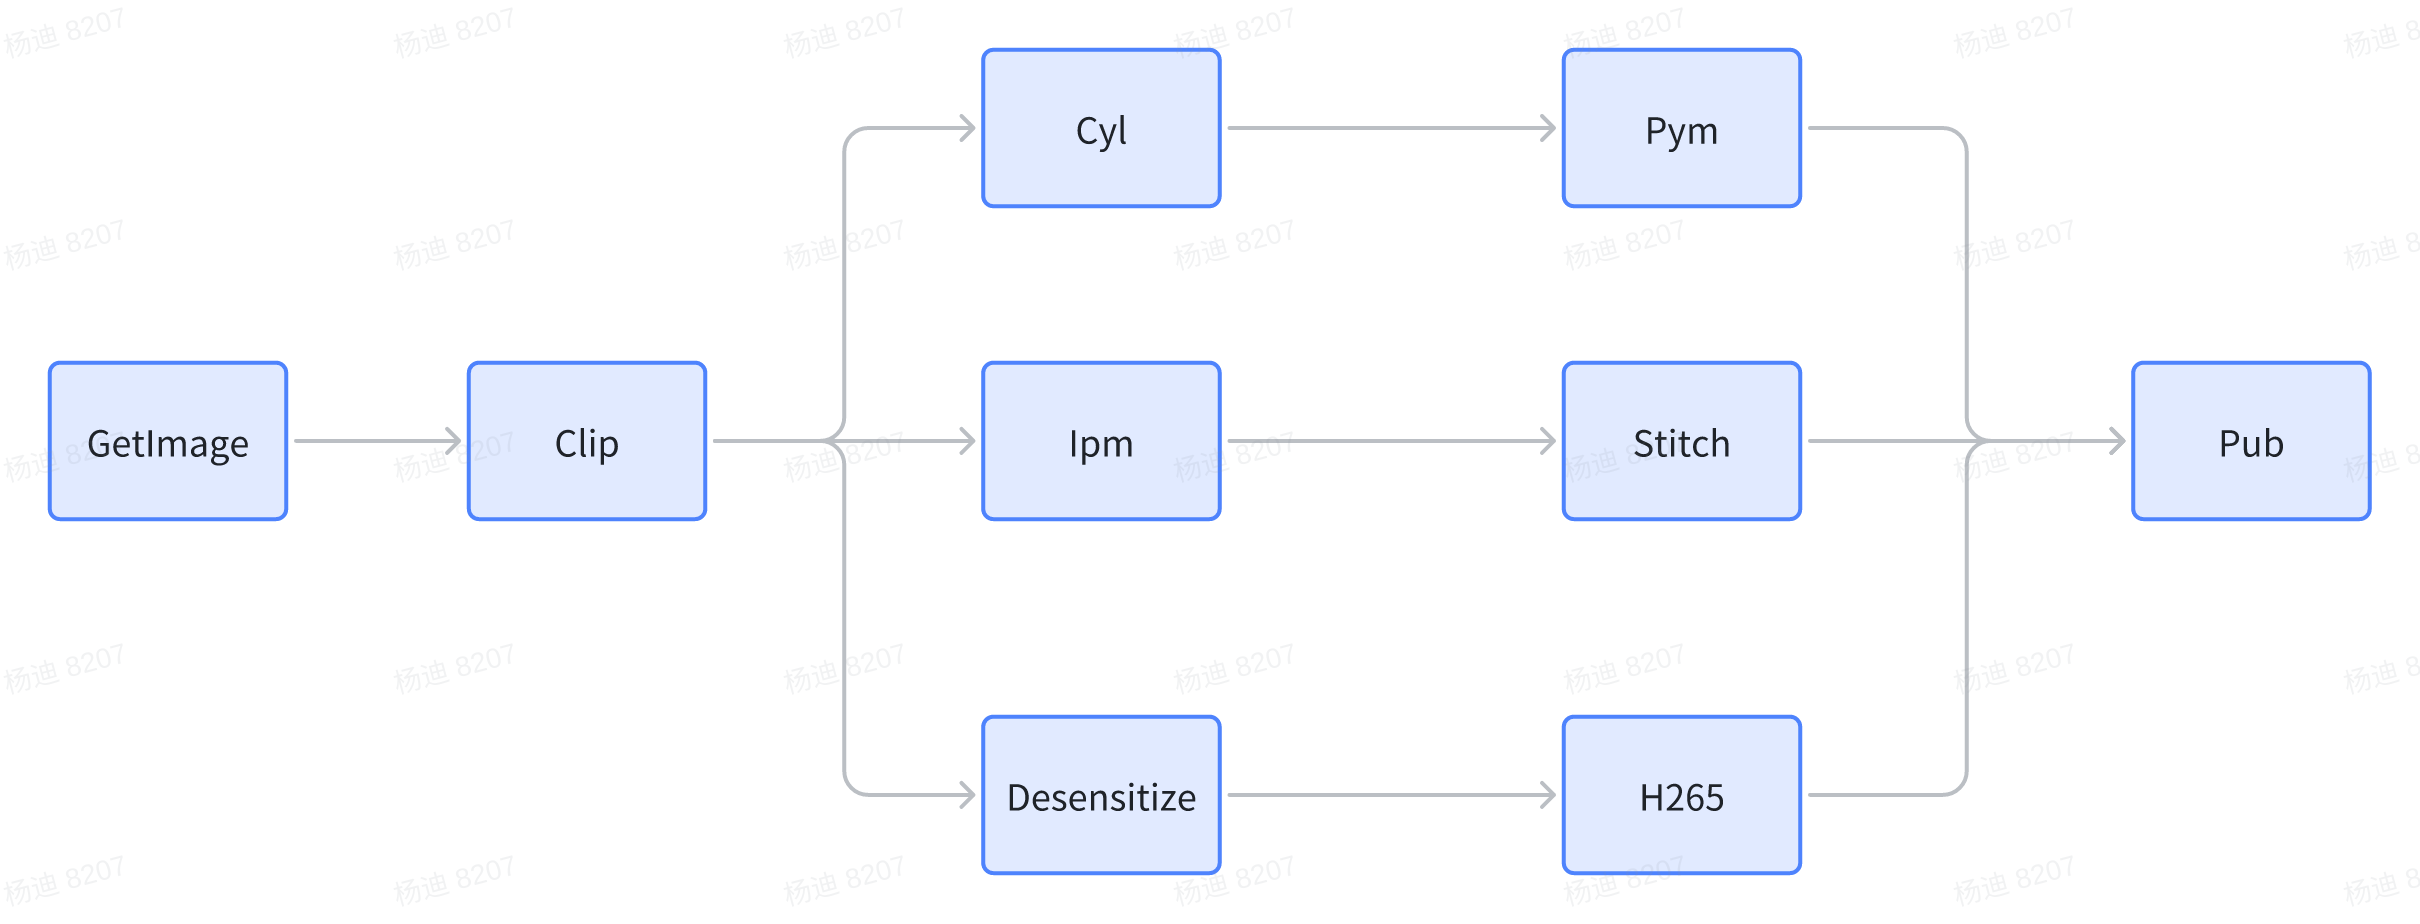
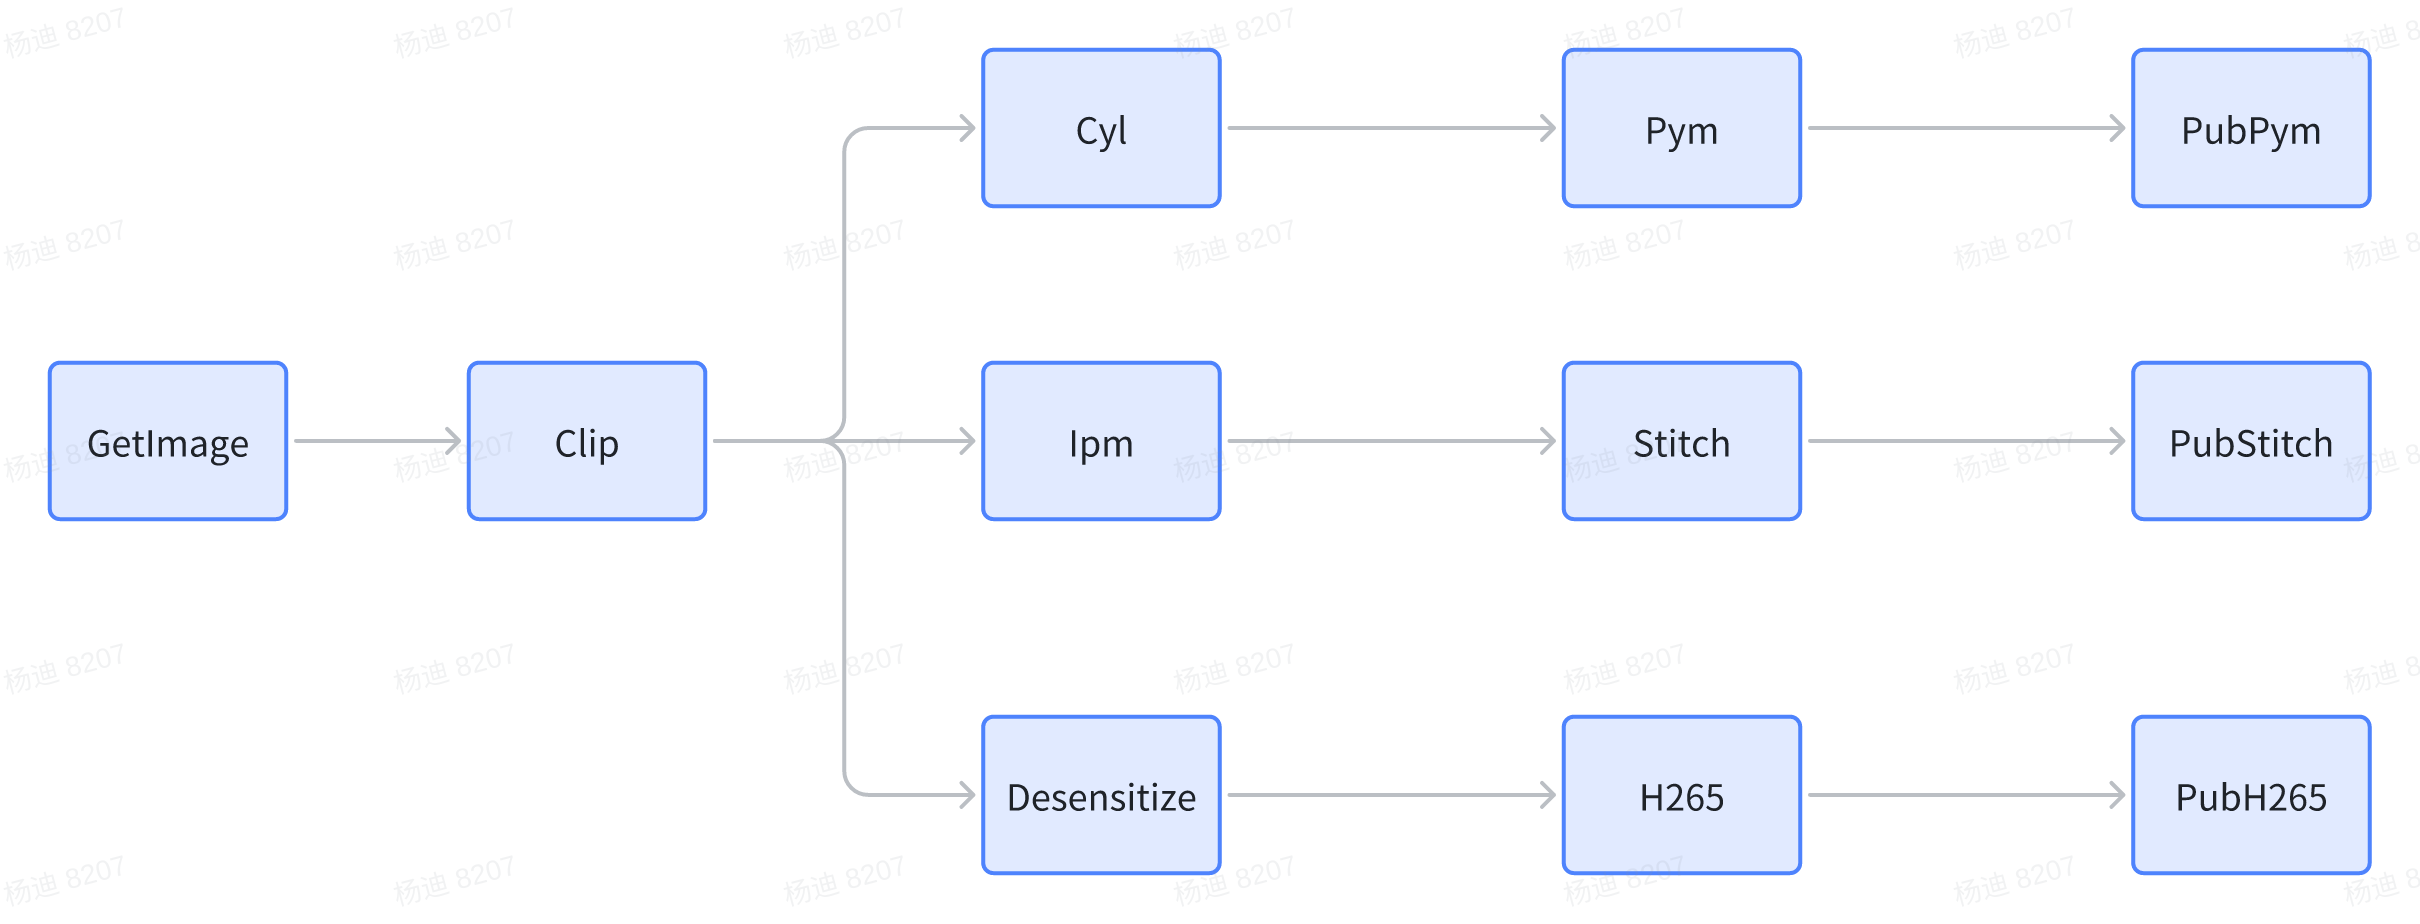
升级为可以持续按照DAG运行

Changed region(s): [[0.8058, 0.7576, 0.9917, 0.9697], [0.8058, 0.0303, 0.9917, 0.2424], [0.8988, 0.4545, 0.9607, 0.5152]]

diff --git a/src/main.cpp b/src/main.cpp
@@ -3,14 +3,14 @@
 #include "DGraph.h"
 #include "MyNode.h"
 
-#define TEST_DIRECTED_GRAPH_1 1
+#define TEST_DIRECTED_GRAPH_1 0
 #define TEST_DIRECTED_GRAPH_2 0
-#define TEST_DIRECTED_GRAPH_3 0
+#define TEST_DIRECTED_GRAPH_3 1
 
 int main() {
   try {
    #if TEST_DIRECTED_GRAPH_1
-    std::shared_ptr<Node> a = std::make_shared<MyNode1>();
+    std::shared_ptr<Node> a = std::make_shared<MyNode5>();
     std::shared_ptr<Node> b = std::make_shared<MyNode5>();
     std::shared_ptr<Node> c = std::make_shared<MyNode3>();
     std::shared_ptr<Node> d = std::make_shared<MyNode1>();
@@ -27,8 +27,8 @@ int main() {
     graph->RegisterNode(d, {a}, "NodeD");     // 注册节点d，命名为NodeD，依赖节点a
     graph->RegisterNode(e, {b, c}, "NodeE");  // 注册节点e，命名为NodeE，依赖节点b和c
     graph->RegisterNode(f, {d, e}, "NodeF");  // 注册节点f，命名为NodeF，依赖节点d和e
-    graph->RegisterNode(g, {}, "NodeG");      // 注册节点g，命名为NodeG
-    graph->RegisterNode(h, {}, "LoopNode1"); // 注册一个loop节点h,
+    // graph->RegisterNode(g, {}, "NodeG");      // 注册节点g，命名为NodeG
+    // graph->RegisterNode(h, {}, "LoopNode1"); // 注册一个loop节点h,
     // graph->RegisterNode(c, {f}, "NodeC");     // 注册节点c，命名为NodeC，依赖节点f。注意：此项会使graph成环, 图结构见image目录Directed_ring_graph.jpg
    #endif
 
@@ -64,15 +64,18 @@ int main() {
    #endif
 
    #if TEST_DIRECTED_GRAPH_3
-    std::shared_ptr<Node> a = std::make_shared<LoopNode>();
-    std::shared_ptr<Node> b = std::make_shared<MyNode5>();
-    std::shared_ptr<Node> c = std::make_shared<MyNode5>();
-    std::shared_ptr<Node> d = std::make_shared<MyNode5>();
-    std::shared_ptr<Node> e = std::make_shared<MyNode5>();
+    std::shared_ptr<Node> a = std::make_shared<MyNode10>();
+    std::shared_ptr<Node> b = std::make_shared<MyNode3>();
+    std::shared_ptr<Node> c = std::make_shared<MyNode3>();
+    std::shared_ptr<Node> d = std::make_shared<MyNode2>();
+    std::shared_ptr<Node> e = std::make_shared<MyNode3>();
     std::shared_ptr<Node> f = std::make_shared<MyNode5>();
     std::shared_ptr<Node> g = std::make_shared<MyNode5>();
     std::shared_ptr<Node> h = std::make_shared<MyNode5>();
-    std::shared_ptr<Node> i = std::make_shared<LoopNode>();
+    std::shared_ptr<Node> i = std::make_shared<MyNode1>();
+    std::shared_ptr<Node> j = std::make_shared<MyNode1>();
+    std::shared_ptr<Node> k = std::make_shared<MyNode1>();
+
 
 
     DGraph* graph = new DGraph();
@@ -85,7 +88,9 @@ int main() {
     graph->RegisterNode(f, {e}, "Stitch");      // 注册节点f，命名为Stitch，依赖节点e
     graph->RegisterNode(g, {b}, "Desensitize"); // 注册节点g，命名为Desensitize，依赖节点b
     graph->RegisterNode(h, {g}, "H265");        // 注册节点h，命名为H265，依赖节点g
-    graph->RegisterNode(i, {}, "Pub");          // 注册节点i，命名为Pub，无依赖节点
+    graph->RegisterNode(i, {d}, "PubCyl");      // 注册节点i，命名为Pub，无依赖节点
+    graph->RegisterNode(j, {f}, "PubStitch");   // 注册节点i，命名为Pub，无依赖节点
+    graph->RegisterNode(k, {h}, "PubH265");     // 注册节点i，命名为Pub，无依赖节点
    #endif
 
 
@@ -93,7 +98,7 @@ int main() {
     graph->TopologicalSort();
 
     graph->Run();
-    std::this_thread::sleep_for(std::chrono::seconds(1));
+    std::this_thread::sleep_for(std::chrono::seconds(30));
     graph->Deinit();
   } catch (std::exception const& e) {
     std::cerr << e.what() << std::endl;

diff --git a/src/Node.cpp b/src/Node.cpp
@@ -24,19 +24,24 @@ void Node::RunBefore() {
 
 void Node::RunAfter() {
   // 节点执行完成后，给依赖此节点的后驱节点依赖项减一
-  node_state_ = NodeState::RUNNING_DONE;
   for (auto node : right_be_dependency_node_) {
     node->left_dep_count_--;
   }
+  // 运行结束后重置本节点入度
+  left_dep_count_ = static_left_dep_count_;
+  std::cout << node_name_ << " reset left_dep_count_: " << left_dep_count_ << std::endl;
+  node_state_ = NodeState::RUNNING_DONE;
 }
 
 bool Node::IsRunable() {
   bool ret{false};
   // 节点没有running 且 节点没有执行完成 且 前置依赖项为0
-  if (node_state_ != NodeState::RUNNING &&
-      node_state_ != NodeState::RUNNING_DONE && left_dep_count_ == 0) {
+  if (left_dep_count_ == 0 &&
+      node_state_ != NodeState::RUNNING &&
+      node_state_ != NodeState::RUNNING_WAITING) {
     std::cout << node_name_ << " is run able" << std::endl;
     ret = true;
+    node_state_ = NodeState::RUNNING_WAITING;
   }
   return ret;
 }
@@ -48,6 +53,7 @@ void Node::AddDependencyNodes(std::set<std::shared_ptr<Node>> const& node_set) {
     left_dependency_node_.emplace(node);  // 将此节点依赖的前置节点注册进来
     left_dep_count_++;  // 将此节点的依赖项加一，此依赖项归零便可以执行
     indegree_++;
+    static_left_dep_count_++;
 
     node->right_be_dependency_node_.emplace(
         this);  // 将依赖此节点的后驱节点注册进来

diff --git a/src/Engine.cpp b/src/Engine.cpp
@@ -32,18 +32,32 @@ void Engine::Init(std::shared_ptr<NodeManager>& node_manager) {
 }
 
 void Engine::Run() {
+  is_running_ = true;
   int total_node_count{node_manager_->GetNodeCount()};
   std::cout << "\n\n************** Engine Run total node count: "
             << total_node_count << " ***************\n"
             << std::endl;
 
-  while (node_have_been_run_count_ < total_node_count) {
-    for (auto node : node_manager_->GetRunAbleNode()) {
-      std::cout << "Add " << node->GetNodeName() << " to thread pool\n";
-      thread_pool_ptr_->execute(std::bind(&Node::Process, node));
-      node_have_been_run_count_++;
+  // 可以一直按照DAG顺序运行
+  thread_pool_ptr_->execute([this]() {
+    while (is_running_) {
+      for (auto node : node_manager_->GetRunAbleNode()) {
+        std::cout << "Add " << node->GetNodeName() << " to thread pool\n";
+        thread_pool_ptr_->execute(std::bind(&Node::Process, node));
+      }
     }
-  }
+  });
+
+  // 只能运行一轮
+  // while (node_have_been_run_count_ < total_node_count) {
+  //   for (auto node : node_manager_->GetRunAbleNode()) {
+  //     std::cout << "Add " << node->GetNodeName() << " to thread pool\n";
+  //     thread_pool_ptr_->execute(std::bind(&Node::Process, node));
+  //     node_have_been_run_count_++;
+  //   }
+  // }
 }
 
-void Engine::Deinit() {}
+void Engine::Deinit() {
+  is_running_ = false;
+}

diff --git a/src/TopologicalSort.cpp b/src/TopologicalSort.cpp
@@ -10,7 +10,7 @@ TopologicalSort::TopologicalSort(std::set<std::shared_ptr<Node>> adjs) {
   adjs_ = adjs;
 }
 
-std::queue<std::shared_ptr<Node>> TopologicalSort::Sort() {
+std::vector<std::shared_ptr<Node>> TopologicalSort::Sort() {
   /// @brief 存储入度为0的节点
   std::queue<std::shared_ptr<Node>> queue;
   /// @brief 将邻接表中入度为零的节点加入队列
@@ -29,7 +29,7 @@ std::queue<std::shared_ptr<Node>> TopologicalSort::Sort() {
   while (!queue.empty()) {
     auto node = queue.front();
     queue.pop();
-    topological_order_.push(node);
+    topological_order_.push_back(node);
 
     for (auto node : node->GetRightNode()) {
       if (--node->GetIndegree() == 0) {
@@ -83,11 +83,9 @@ void TopologicalSort::dfs(std::shared_ptr<Node> node) {
 }
 
 void TopologicalSort::PrintOrder() {
-  std::queue<std::shared_ptr<Node>> queue{topological_order_};
+  std::vector<std::shared_ptr<Node>> queue{topological_order_};
   std::cout << "Topological order: ";
-  while (!queue.empty()) {
-    auto node = queue.front();
-    queue.pop();
+  for (auto node : topological_order_) {
     std::cout << node->GetNodeName() << " ";
   }
   std::cout << std::endl;

diff --git a/src/NodeManager.cpp b/src/NodeManager.cpp
@@ -16,16 +16,25 @@ void NodeManager::Init() {
  */
 std::vector<std::shared_ptr<Node>> NodeManager::GetRunAbleNode() {
   std::vector<std::shared_ptr<Node>> run_able_nodes;
-  while (!order_node_queue_.empty()) {
-    auto node = order_node_queue_.front();
+  // 可以按照DAG一直运行
+  for (auto node : order_node_queue_) {
     if (node->IsRunable()) {
-      std::cout << "NodeManager GetRunAbleNode " << node->GetNodeName() << std::endl;
+      // std::cout << "NodeManager GetRunAbleNode " << node->GetNodeName() << std::endl;
       run_able_nodes.emplace_back(node);
-      order_node_queue_.pop();
-    } else {
-      break;
     }
   }
+
+  // 只能运行一轮
+  // while (!order_node_queue_.empty()) {
+  //   auto node = order_node_queue_.front();
+  //   if (node->IsRunable()) {
+  //     std::cout << "NodeManager GetRunAbleNode " << node->GetNodeName() << std::endl;
+  //     run_able_nodes.emplace_back(node);
+  //     order_node_queue_.erase(order_node_queue_.begin();
+  //   } else {
+  //     break;
+  //   }
+  // }
   return run_able_nodes;
 }
 

diff --git a/include/Node.h b/include/Node.h
@@ -16,10 +16,11 @@ class Node {
  public:
   enum class NodeState {
     CREATED = 0,
-    INITING = 1,
-    INITED = 2,
-    RUNNING = 3,
-    RUNNING_DONE = 4
+    INITING,
+    INITED,
+    RUNNING_WAITING,
+    RUNNING,
+    RUNNING_DONE
   };
 
   enum class NodeType {
@@ -66,6 +67,9 @@ class Node {
    * @brief 前置依赖项数（入度），归零即可执行此节点
    */
   std::atomic<uint32_t> left_dep_count_;
+
+  // 记录最初的入度，在运行结束后恢复入度，准备下一轮运行
+  std::uint32_t static_left_dep_count_;
 
   /// @brief 入度（前置依赖项数）
   int indegree_;

diff --git a/include/TopologicalSort.h b/include/TopologicalSort.h
@@ -11,7 +11,7 @@
 class TopologicalSort {
  public:
   TopologicalSort(std::set<std::shared_ptr<Node>> adjs);
-  std::queue<std::shared_ptr<Node>> Sort();
+  std::vector<std::shared_ptr<Node>> Sort();
   std::stack<std::shared_ptr<Node>> DfsSort();
   void PrintOrder();
 
@@ -19,7 +19,7 @@ class TopologicalSort {
   void dfs(std::shared_ptr<Node> node);
 
   std::set<std::shared_ptr<Node>> adjs_;
-  std::queue<std::shared_ptr<Node>> topological_order_;
+  std::vector<std::shared_ptr<Node>> topological_order_;
   std::stack<std::shared_ptr<Node>> reverse_post_order_;
   std::set<std::shared_ptr<Node>> marked_;
 

diff --git a/include/MyNode.h b/include/MyNode.h
@@ -42,6 +42,14 @@ class MyNode5 : public Node {
   }
 };
 
+class MyNode10 : public Node {
+  void run() override {
+    std::cout << Node::GetNodeName() << " running\n";
+    std::this_thread::sleep_for(std::chrono::seconds(10));
+    std::cout << Node::GetNodeName() << " running over\n";
+  }
+};
+
 class LoopNode : public Node {
   void run() override {
     while (true) {

diff --git a/include/NodeManager.h b/include/NodeManager.h
@@ -40,7 +40,7 @@ class NodeManager {
   /// @brief DFS拓扑排序结果
   std::stack<std::shared_ptr<Node>> order_node_stack_;
   /// @brief 拓扑排序结果
-  std::queue<std::shared_ptr<Node>> order_node_queue_;
+  std::vector<std::shared_ptr<Node>> order_node_queue_;
   
   JudgmentCycle judgment_cycle_;
   std::shared_ptr<TopologicalSort> topo_sort_;

diff --git a/src/DGraph.cpp b/src/DGraph.cpp
@@ -22,7 +22,10 @@ void DGraph::Run() {
   engine_.Run();
 }
 
-void DGraph::Deinit() {}
+void DGraph::Deinit() {
+  std::cout << "DGraph Deinit\n";
+  engine_.Deinit();
+}
 
 bool DGraph::RegisterNode(
     std::shared_ptr<Node>& node,

diff --git a/include/Engine.h b/include/Engine.h
@@ -28,6 +28,7 @@ class Engine {
   std::shared_ptr<ThreadPool> thread_pool_ptr_;
   std::shared_ptr<NodeManager> node_manager_;
   int node_have_been_run_count_;
+  bool is_running_;
 };
 
 #endif

diff --git a/include/Nodes/GetRawImageNode.h b/include/Nodes/GetRawImageNode.h
@@ -1,1 +1,6 @@
-#ifndef 
+#ifndef GET_RAW_IMAGE_NODE_H_
+#define GET_RAW_IMAGE_NODE_H_
+
+
+
+#endif // GET_RAW_IMAGE_NODE_H_
